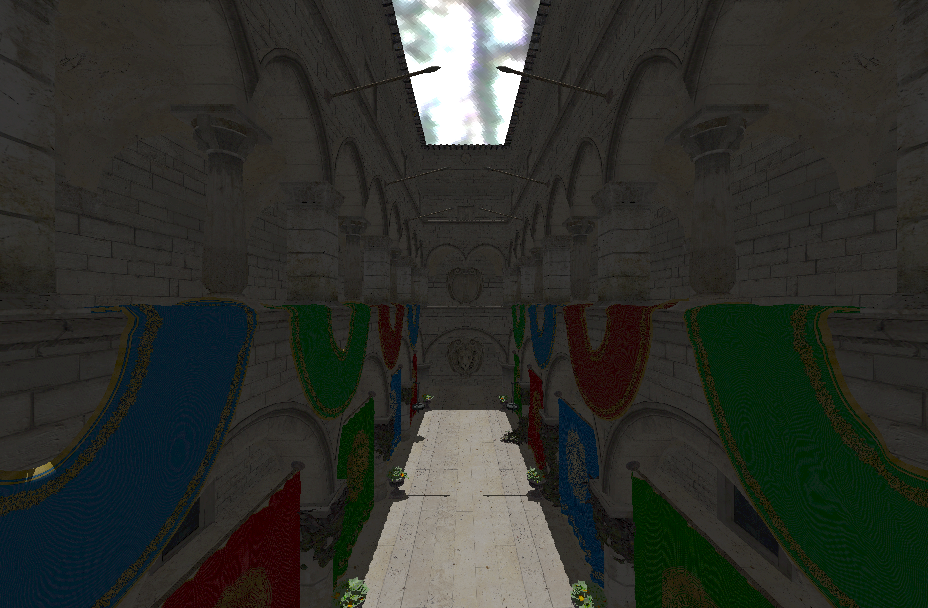
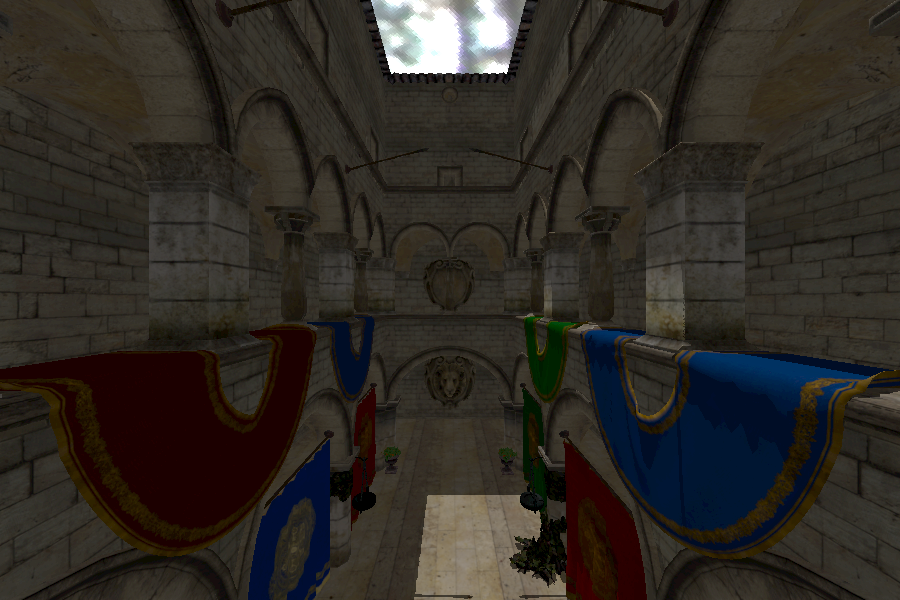
Updated materials and scenes and made new screenshots

diff --git a/Scene.cpp b/Scene.cpp
@@ -21,7 +21,7 @@ Scene::Scene() : camera(DEG_TO_RAD(110.0f)), spheres(2), planes(1), sky(DATA_PAT
 	planes[0].transform.position.y = -1.0f;
 	planes[0].transform.rotation   = Quaternion::axis_angle(Vector3(0.0f, 1.0f, 0.0f), 0.25f * PI);
 	Material::materials[planes[0].material_id].texture    = Texture::load(DATA_PATH("Floor.png"));
-	Material::materials[planes[0].material_id].reflection = 0.25f;
+	Material::materials[planes[0].material_id].reflection = 0.1f;
 	
 	top_level_bvh.init(6);
 	Mesh * diamond   = top_level_bvh.primitives;
@@ -120,8 +120,8 @@ Scene::Scene() : camera(DEG_TO_RAD(110.0f)), spheres(0), planes(0), sky(DATA_PAT
 		DirectionalLight(Vector3(0.9f), Vector3::normalize(Vector3(0.1f, -1.0f, 0.1f)))
 	};
 	
-	camera.position = Vector3(0.0f, 10.0f, 0.0f);
-	camera.rotation = Quaternion::axis_angle(Vector3(0.0f, 1.0f, 0.0f), DEG_TO_RAD(-90.0f));
+	camera.position = Vector3(19.729143f, 18.946165f, 0.000000f);
+	camera.rotation = Quaternion(0.000000f, -0.707107f, 0.000000f, 0.707107f);
 }
 #endif
 
